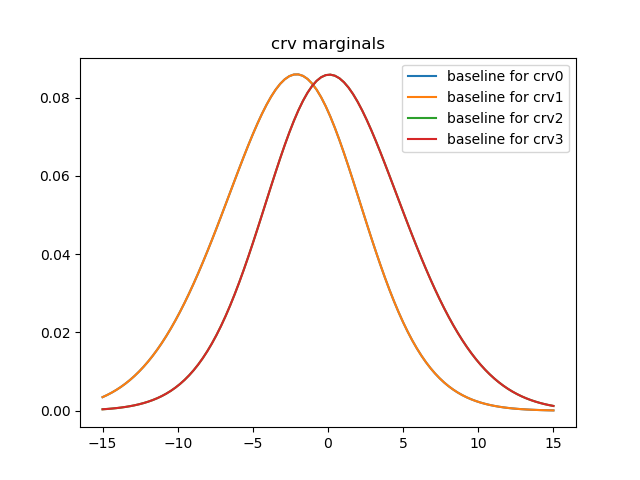
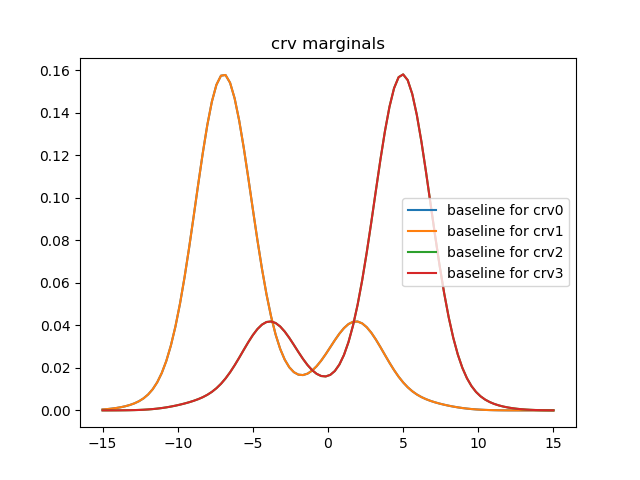
use two eq_op with two sets of quadratic forms with modes in hmln_citation_experiment.py, don't care if there's a good story behind

diff --git a/osi/hmln_citation_experiment.py b/osi/hmln_citation_experiment.py
@@ -53,17 +53,19 @@ f1 = ParamF(  # disc
 )
 
 w_h = 0.4  # the stronger the more multi-modal things tend to be
+c1, c2 = (7., 1)  # mu1 = c2 - c1 is shared mean for comp1
+d1, d2 = (-10.1, 2)  # mu2 = d2 - d1 is shared mean for comp2
 f2 = ParamF(
-    MLNPotential(lambda x: x[0] * eq_op(x[1], x[2]), w=w_h),
+    MLNPotential(lambda x: x[0] * eq_op(x[1] - c1, x[2] - c2) + (1 - x[0]) * eq_op(x[1] - d1, x[2] - d2), w=w_h),
     nb=(atom_paperIn, atom_paper_popularity, atom_topic_popularity)
 )
 equiv_hybrid_pot = HybridQuadraticPotential(
-    A=w_h * np.array([np.array([[0., 0], [0, 0]]), np.array([[-1., 1.], [1., -1.]])]),
-    b=w_h * np.array([[0., 0.], [0., 0.]]),
-    c=w_h * np.array([0., 0.])
+    A=w_h * np.array([np.array([[-1., 1.], [1., -1.]]), np.array([[-1., 1.], [1., -1.]])]),
+    b=w_h * 2 * np.array([[d1 - d2, d2 - d1], [c1 - c2, c2 - c1]]),
+    c=w_h * np.array([-(d1 - d2) ** 2, -(c1 - c2) ** 2])
 )  # equals 0 if x[0]==0, equals -(x[1]-x[1])^2 if x[0]==1
 
-prior_strength = 0.01
+prior_strength = 0.02
 locs = [-3., 1]
 f3 = ParamF(  # cont
     QuadraticPotential(A=prior_strength * -(np.eye(2)), b=prior_strength * 2 * np.array(locs),
